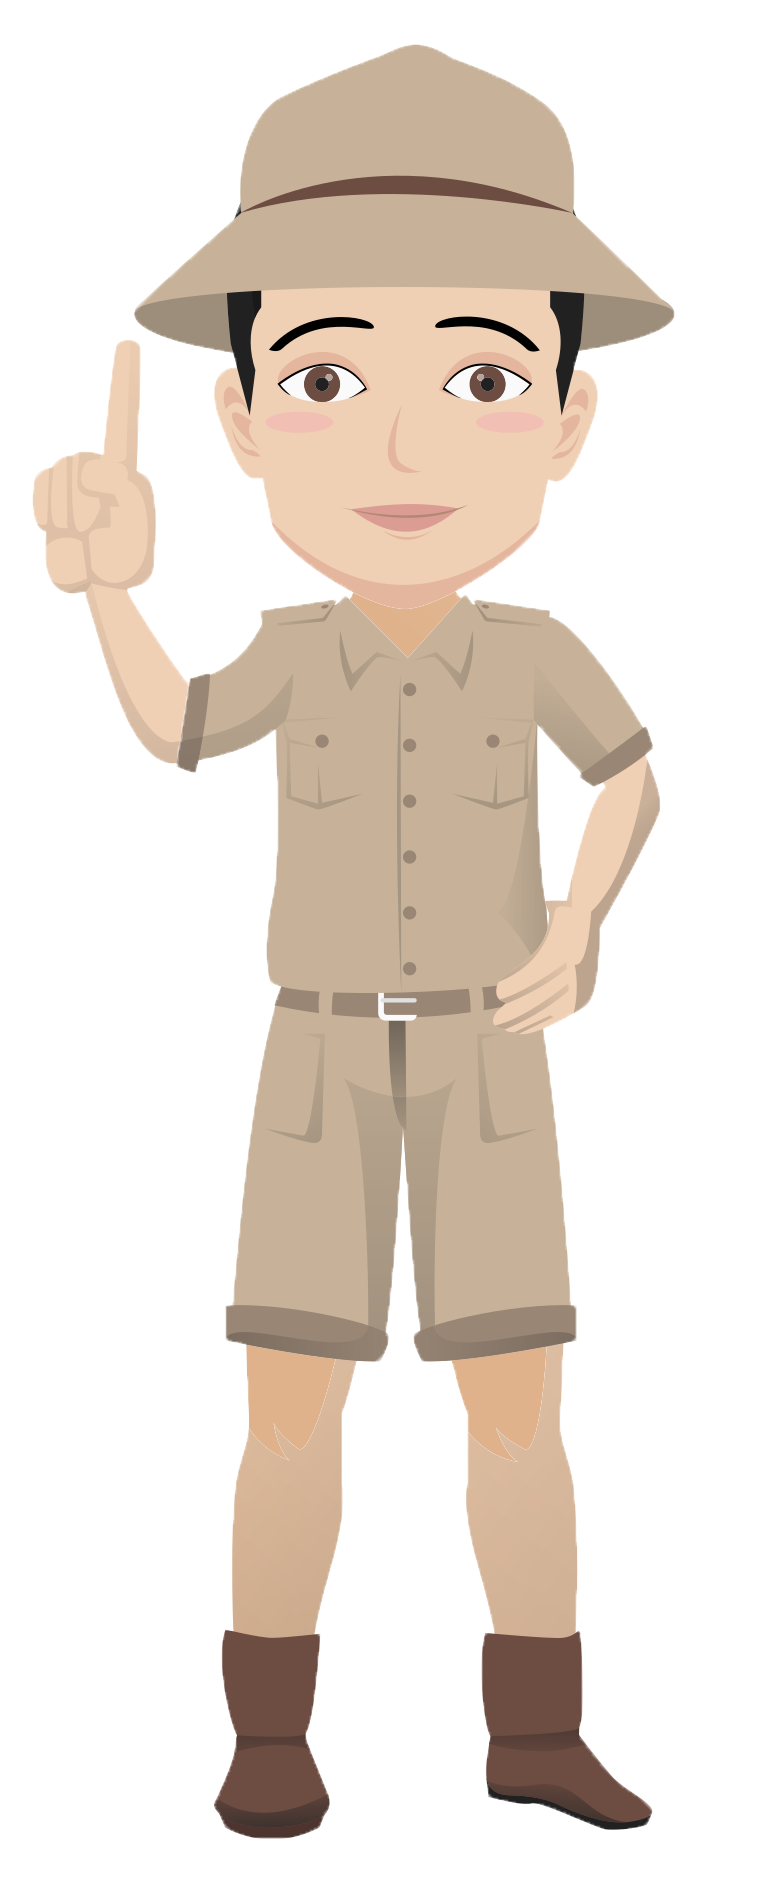
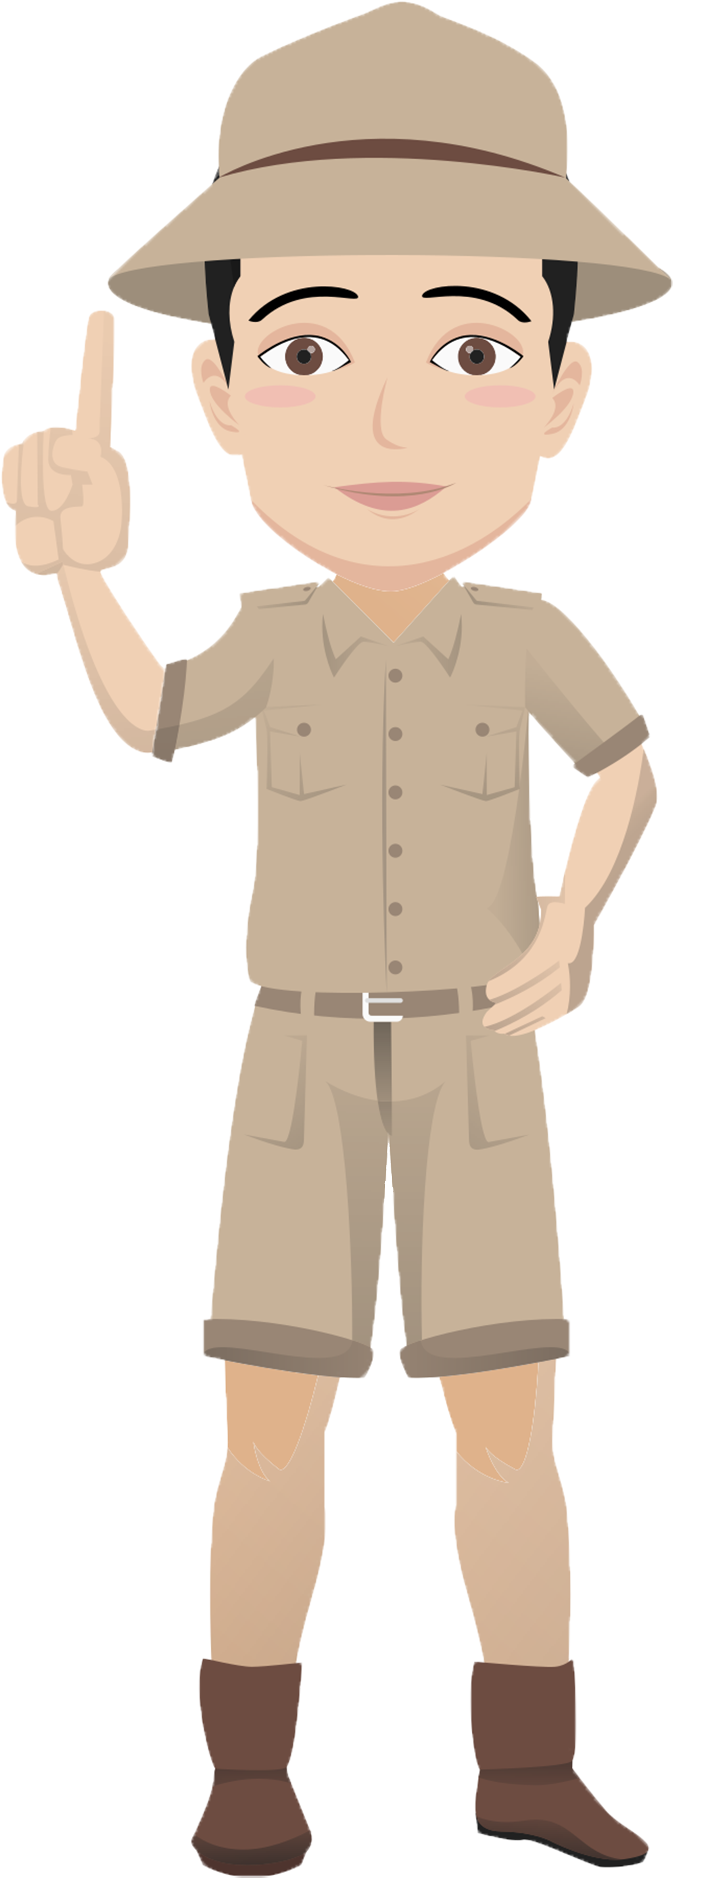
Mappuzzel 3x3 -> 4x4, groep 2 map, male keeper new

diff --git a/public/pages/mappuzzel.html b/public/pages/mappuzzel.html
@@ -40,32 +40,46 @@
         </section>
 
         <section class="section-mappuzzel grid-16-9">
-            <article class="mappuzzel grid-3-3">
-                <img class="mappuzzel--map-BG drop droppable" data-piece="piece1" src="../images/map_puzzle_game/image_part_001.png" alt="Map stukje 1"></img>
-                <img class="mappuzzel--map-BG drop droppable" data-piece="piece2" src="../images/map_puzzle_game/image_part_002.png" alt="Map stukje 2"></img>
-                <img class="mappuzzel--map-BG drop droppable" data-piece="piece3" src="../images/map_puzzle_game/image_part_003.png" alt="Map stukje 3"></img>
-                <img class="mappuzzel--map-BG drop droppable" data-piece="piece4" src="../images/map_puzzle_game/image_part_004.png" alt="Map stukje 4"></img>
-                <img class="mappuzzel--map-BG drop droppable" data-piece="piece5" src="../images/map_puzzle_game/image_part_005.png" alt="Map stukje 5"></img>
-                <img class="mappuzzel--map-BG drop droppable" data-piece="piece6" src="../images/map_puzzle_game/image_part_006.png" alt="Map stukje 6"></img>
-                <img class="mappuzzel--map-BG drop droppable" data-piece="piece7" src="../images/map_puzzle_game/image_part_007.png" alt="Map stukje 7"></img>
-                <img class="mappuzzel--map-BG drop droppable" data-piece="piece8" src="../images/map_puzzle_game/image_part_008.png" alt="Map stukje 8"></img>
-                <img class="mappuzzel--map-BG drop droppable" data-piece="piece9" src="../images/map_puzzle_game/image_part_009.png" alt="Map stukje 9"></img>
+             <article class="mappuzzel grid-4-4">
+                <figure><img class="mappuzzel--map-BG drop droppable" data-piece="piece1" src="../images/map_puzzle_game/4x4/image_part_001.png" alt="Map stukje 1"></figure>
+                <figure><img class="mappuzzel--map-BG drop droppable" data-piece="piece2" src="../images/map_puzzle_game/4x4/image_part_002.png" alt="Map stukje 2"></figure>
+                <figure><img class="mappuzzel--map-BG drop droppable" data-piece="piece3" src="../images/map_puzzle_game/4x4/image_part_003.png" alt="Map stukje 3"></figure>
+                <figure><img class="mappuzzel--map-BG drop droppable" data-piece="piece4" src="../images/map_puzzle_game/4x4/image_part_004.png" alt="Map stukje 4"></figure>
+                <figure><img class="mappuzzel--map-BG drop droppable" data-piece="piece5" src="../images/map_puzzle_game/4x4/image_part_005.png" alt="Map stukje 5"></figure>
+                <figure><img class="mappuzzel--map-BG drop droppable" data-piece="piece6" src="../images/map_puzzle_game/4x4/image_part_006.png" alt="Map stukje 6"></figure>
+                <figure><img class="mappuzzel--map-BG drop droppable" data-piece="piece7" src="../images/map_puzzle_game/4x4/image_part_007.png" alt="Map stukje 7"></figure>
+                <figure><img class="mappuzzel--map-BG drop droppable" data-piece="piece8" src="../images/map_puzzle_game/4x4/image_part_008.png" alt="Map stukje 8"></figure>
+                <figure><img class="mappuzzel--map-BG drop droppable" data-piece="piece9" src="../images/map_puzzle_game/4x4/image_part_009.png" alt="Map stukje 9"></figure>
+                <figure><img class="mappuzzel--map-BG drop droppable" data-piece="piece10" src="../images/map_puzzle_game/4x4/image_part_010.png" alt="Map stukje 10"></figure>
+                <figure><img class="mappuzzel--map-BG drop droppable" data-piece="piece11" src="../images/map_puzzle_game/4x4/image_part_011.png" alt="Map stukje 11"></figure>
+                <figure><img class="mappuzzel--map-BG drop droppable" data-piece="piece12" src="../images/map_puzzle_game/4x4/image_part_012.png" alt="Map stukje 12"></figure>
+                <figure><img class="mappuzzel--map-BG drop droppable" data-piece="piece13" src="../images/map_puzzle_game/4x4/image_part_013.png" alt="Map stukje 13"></figure>
+                <figure><img class="mappuzzel--map-BG drop droppable" data-piece="piece14" src="../images/map_puzzle_game/4x4/image_part_014.png" alt="Map stukje 14"></figure>
+                <figure><img class="mappuzzel--map-BG drop droppable" data-piece="piece15" src="../images/map_puzzle_game/4x4/image_part_015.png" alt="Map stukje 15"></figure>
+                <figure><img class="mappuzzel--map-BG drop droppable" data-piece="piece16" src="../images/map_puzzle_game/4x4/image_part_016.png" alt="Map stukje 16"></figure>
             </article>
 
-            <section class="mappuzzel--slide grid-16-9">
-                <img class="mappuzzel--slide-1 drag" data-piece="piece1" src="../images/map_puzzle_game/image_part_001.png" alt="Map stukje 1"></img>
-                <img class="mappuzzel--slide-2 drag" data-piece="piece2" src="../images/map_puzzle_game/image_part_002.png" alt="Map stukje 2"></img>
-                <img class="mappuzzel--slide-3 drag" data-piece="piece3" src="../images/map_puzzle_game/image_part_003.png" alt="Map stukje 3"></img>
-                <img class="mappuzzel--slide-4 drag" data-piece="piece4" src="../images/map_puzzle_game/image_part_004.png" alt="Map stukje 4"></img>
-                <img class="mappuzzel--slide-5 drag" data-piece="piece5" src="../images/map_puzzle_game/image_part_005.png" alt="Map stukje 5"></img>
-                <img class="mappuzzel--slide-6 drag" data-piece="piece6" src="../images/map_puzzle_game/image_part_006.png" alt="Map stukje 6"></img>
-                <img class="mappuzzel--slide-7 drag" data-piece="piece7" src="../images/map_puzzle_game/image_part_007.png" alt="Map stukje 7"></img>
-                <img class="mappuzzel--slide-8 drag" data-piece="piece8" src="../images/map_puzzle_game/image_part_008.png" alt="Map stukje 8"></img>
-                <img class="mappuzzel--slide-9 drag" data-piece="piece9" src="../images/map_puzzle_game/image_part_009.png" alt="Map stukje 9"></img>
-            </section>
+            <article class="mappuzzel--slide grid-16-9">
+            <img class="mappuzzel--slide-1 drag" data-piece="piece1" src="../images/map_puzzle_game/4x4/image_part_001.png" alt="Map stukje 1">
+            <img class="mappuzzel--slide-2 drag" data-piece="piece2" src="../images/map_puzzle_game/4x4/image_part_002.png" alt="Map stukje 2">
+            <img class="mappuzzel--slide-3 drag" data-piece="piece3" src="../images/map_puzzle_game/4x4/image_part_003.png" alt="Map stukje 3">
+            <img class="mappuzzel--slide-4 drag" data-piece="piece4" src="../images/map_puzzle_game/4x4/image_part_004.png" alt="Map stukje 4">
+            <img class="mappuzzel--slide-5 drag" data-piece="piece5" src="../images/map_puzzle_game/4x4/image_part_005.png" alt="Map stukje 5">
+            <img class="mappuzzel--slide-6 drag" data-piece="piece6" src="../images/map_puzzle_game/4x4/image_part_006.png" alt="Map stukje 6">
+            <img class="mappuzzel--slide-7 drag" data-piece="piece7" src="../images/map_puzzle_game/4x4/image_part_007.png" alt="Map stukje 7">
+            <img class="mappuzzel--slide-8 drag" data-piece="piece8" src="../images/map_puzzle_game/4x4/image_part_008.png" alt="Map stukje 8">
+            <img class="mappuzzel--slide-9 drag" data-piece="piece9" src="../images/map_puzzle_game/4x4/image_part_009.png" alt="Map stukje 9">
+            <img class="mappuzzel--slide-10 drag" data-piece="piece10" src="../images/map_puzzle_game/4x4/image_part_010.png" alt="Map stukje 10">
+            <img class="mappuzzel--slide-11 drag" data-piece="piece11" src="../images/map_puzzle_game/4x4/image_part_011.png" alt="Map stukje 11">
+            <img class="mappuzzel--slide-12 drag" data-piece="piece12" src="../images/map_puzzle_game/4x4/image_part_012.png" alt="Map stukje 12">
+            <img class="mappuzzel--slide-13 drag" data-piece="piece13" src="../images/map_puzzle_game/4x4/image_part_013.png" alt="Map stukje 13">
+            <img class="mappuzzel--slide-14 drag" data-piece="piece14" src="../images/map_puzzle_game/4x4/image_part_014.png" alt="Map stukje 14">
+            <img class="mappuzzel--slide-15 drag" data-piece="piece15" src="../images/map_puzzle_game/4x4/image_part_015.png" alt="Map stukje 15">
+            <img class="mappuzzel--slide-16 drag" data-piece="piece16" src="../images/map_puzzle_game/4x4/image_part_016.png" alt="Map stukje 16">
+            </article>
 
             <!-- <p id="js--map_text" class="section-mappuzzel__finished">Dat ziet er veel beter uit! Laten we de kaart maar meteen gebruiken!</p> -->
-            <img id="js--map_zookeeper" class="mappuzzel__zookeeper" src="../images/zoo-keeper-1.png" alt="Zookeeper">
+            <img id="js--map_zookeeper" class="mappuzzel__zookeeper" src="../images/zookeeper-poses/male/zookeeper-pose-happy-hips.png" alt="Zookeeper">
             <div id="js--map_btn" class="mappuzzel__eind-btn">
                 <button class="btn-ok button">&#10148;</button>
             </div>

diff --git a/public/pages/groep-2/mappuzzel.html b/public/pages/groep-2/mappuzzel.html
@@ -1,0 +1,84 @@
+<!DOCTYPE html>
+<html lang="en">
+<head>
+    <meta charset="UTF-8">
+    <meta http-equiv="X-UA-Compatible" content="IE=edge">
+    <meta name="viewport" content="width=device-width, initial-scale=1.0">
+    <title>Dierentuin</title>
+    <link rel="stylesheet" href="../../sass/main.css">
+    <link rel="icon" type="image/x-icon" href="../../images/monkey-head.png">
+    <script src="../../javascript/main.js" type="module" defer></script>
+    <script src="../../javascript/mappuzzel.js" type="module" defer></script>
+</head>
+<body>
+    <iframe src="../../audio/3-Mappuzzel/1-kaartInElkaar.mp3" allow="autoplay" style="display:none" id="iframeAudio"></iframe>
+    <main class="background-mappuzzel">
+        <section class="puzzel-options grid-16-1">
+            <button class="puzzel-options__btn-hint button ">
+                <img class="puzzel-options__btn-hint--image" src="../../images/hint-btn.png"></img>
+            </button>
+
+            <button class="puzzel-options__btn-information button ">
+                <img class="puzzel-options__btn-information--image" src="../../images/information-btn.png"></img>
+            </button>
+
+            <button class="puzzel-options__btn-music button" id="js--music-on">
+                <img class="puzzel-options__btn-music--image" src="../../images/music-on-btn.png"></img>
+            </button>
+
+            <button class="puzzel-options__btn-music puzzel-options__btn-music-off button" id="js--music-off">
+                <img class="puzzel-options__btn-music--image" src="../../images/music-off-btn.png"></img>
+            </button>
+
+            <button class="puzzel-options__btn-speak button" id="js--speak-on">
+                <img class="puzzel-options__btn-speak--image" src="../../images/speak-on-btn.png"></img>
+            </button>
+
+            <button class="puzzel-options__btn-speak puzzel-options__btn-speak-off button" id="js--speak-off">
+                <img class="puzzel-options__btn-speak--image" src="../../images/speak-off-btn.png"></img>
+            </button>
+        </section>
+
+        <section class="section-mappuzzel grid-16-9">
+            <article class="mappuzzel grid-3-3">
+                <img class="mappuzzel--map-BG drop droppable" data-piece="piece1" src="../../images/map_puzzle_game/image_part_001.png" alt="Map stukje 1"></img>
+                <img class="mappuzzel--map-BG drop droppable" data-piece="piece2" src="../../images/map_puzzle_game/image_part_002.png" alt="Map stukje 2"></img>
+                <img class="mappuzzel--map-BG drop droppable" data-piece="piece3" src="../../images/map_puzzle_game/image_part_003.png" alt="Map stukje 3"></img>
+                <img class="mappuzzel--map-BG drop droppable" data-piece="piece4" src="../../images/map_puzzle_game/image_part_004.png" alt="Map stukje 4"></img>
+                <img class="mappuzzel--map-BG drop droppable" data-piece="piece5" src="../../images/map_puzzle_game/image_part_005.png" alt="Map stukje 5"></img>
+                <img class="mappuzzel--map-BG drop droppable" data-piece="piece6" src="../../images/map_puzzle_game/image_part_006.png" alt="Map stukje 6"></img>
+                <img class="mappuzzel--map-BG drop droppable" data-piece="piece7" src="../../images/map_puzzle_game/image_part_007.png" alt="Map stukje 7"></img>
+                <img class="mappuzzel--map-BG drop droppable" data-piece="piece8" src="../../images/map_puzzle_game/image_part_008.png" alt="Map stukje 8"></img>
+                <img class="mappuzzel--map-BG drop droppable" data-piece="piece9" src="../../images/map_puzzle_game/image_part_009.png" alt="Map stukje 9"></img>
+            </article>
+
+            <section class="mappuzzel--slide grid-16-9">
+                <img class="mappuzzel--slide-1 drag" data-piece="piece1" src="../../images/map_puzzle_game/image_part_001.png" alt="Map stukje 1"></img>
+                <img class="mappuzzel--slide-2 drag" data-piece="piece2" src="../../images/map_puzzle_game/image_part_002.png" alt="Map stukje 2"></img>
+                <img class="mappuzzel--slide-3 drag" data-piece="piece3" src="../../images/map_puzzle_game/image_part_003.png" alt="Map stukje 3"></img>
+                <img class="mappuzzel--slide-4 drag" data-piece="piece4" src="../../images/map_puzzle_game/image_part_004.png" alt="Map stukje 4"></img>
+                <img class="mappuzzel--slide-5 drag" data-piece="piece5" src="../../images/map_puzzle_game/image_part_005.png" alt="Map stukje 5"></img>
+                <img class="mappuzzel--slide-6 drag" data-piece="piece6" src="../../images/map_puzzle_game/image_part_006.png" alt="Map stukje 6"></img>
+                <img class="mappuzzel--slide-7 drag" data-piece="piece7" src="../../images/map_puzzle_game/image_part_007.png" alt="Map stukje 7"></img>
+                <img class="mappuzzel--slide-8 drag" data-piece="piece8" src="../../images/map_puzzle_game/image_part_008.png" alt="Map stukje 8"></img>
+                <img class="mappuzzel--slide-9 drag" data-piece="piece9" src="../../images/map_puzzle_game/image_part_009.png" alt="Map stukje 9"></img>
+            </section>
+
+            <!-- <p id="js--map_text" class="section-mappuzzel__finished">Dat ziet er veel beter uit! Laten we de kaart maar meteen gebruiken!</p> -->
+            <img id="js--map_zookeeper" class="mappuzzel__zookeeper" src="../../images/zookeeper-poses/male/zookeeper-pose-happy-hips.png" alt="Zookeeper">
+            <div id="js--map_btn" class="mappuzzel__eind-btn">
+                <button class="btn-ok button">&#10148;</button>
+            </div>
+
+            <div class="speech-bubble mappuzzel--speech-bubble" id="js--speech-bubble">
+                <image class="btn-explaine hide" id="js--speech-bubble-img"></image>
+                <p id="js--speech-bubble-p">Dat ziet er niet best uit… Zullen we de kaart weer in elkaar zetten?</p>
+                <div class="btn-ok-div">
+                    <button class="btn-ok-small button" id="js--speech-bubble-btn">&#10004;</button>
+                </div>
+            </div>
+            <div class="hide-overlay" id="js--map-overlay"></div>
+        </section>
+    </main>
+</body>
+</html>

diff --git a/public/sass/main.css b/public/sass/main.css
@@ -1434,6 +1434,13 @@ input[type=number]::-webkit-outer-spin-button {
       grid-template-columns: repeat(3, minmax(0, 1fr));
 }
 
+.grid-4-4 {
+  display: -ms-grid;
+  display: grid;
+  -ms-grid-columns: (minmax(0, 1fr))[4];
+      grid-template-columns: repeat(4, minmax(0, 1fr));
+}
+
 .section-rekensom {
   place-items: end;
 }
@@ -1919,6 +1926,97 @@ input[type=number]::-webkit-outer-spin-button {
           transform: rotate(30deg);
 }
 
+.mappuzzel--slide-10 {
+  height: auto;
+  width: 240px;
+  -ms-grid-column: 12;
+  -ms-grid-column-span: 2;
+  grid-column: 12 / span 2;
+  -ms-grid-row: 2;
+  -ms-grid-row-span: 1;
+  grid-row: 2 /span 1;
+  -webkit-transform: rotate(30deg);
+          transform: rotate(30deg);
+}
+
+.mappuzzel--slide-11 {
+  height: auto;
+  width: 240px;
+  -ms-grid-column: 11;
+  -ms-grid-column-span: 2;
+  grid-column: 11 / span 2;
+  -ms-grid-row: 4;
+  -ms-grid-row-span: 1;
+  grid-row: 4 /span 1;
+  -webkit-transform: rotate(30deg);
+          transform: rotate(30deg);
+}
+
+.mappuzzel--slide-12 {
+  height: auto;
+  width: 240px;
+  -ms-grid-column: 12;
+  -ms-grid-column-span: 2;
+  grid-column: 12 / span 2;
+  -ms-grid-row: 5;
+  -ms-grid-row-span: 1;
+  grid-row: 5 /span 1;
+  -webkit-transform: rotate(30deg);
+          transform: rotate(30deg);
+}
+
+.mappuzzel--slide-13 {
+  height: auto;
+  width: 240px;
+  -ms-grid-column: 13;
+  -ms-grid-column-span: 2;
+  grid-column: 13 / span 2;
+  -ms-grid-row: 3;
+  -ms-grid-row-span: 1;
+  grid-row: 3 /span 1;
+  -webkit-transform: rotate(30deg);
+          transform: rotate(30deg);
+}
+
+.mappuzzel--slide-14 {
+  height: auto;
+  width: 240px;
+  -ms-grid-column: 15;
+  -ms-grid-column-span: 2;
+  grid-column: 15 / span 2;
+  -ms-grid-row: 7;
+  -ms-grid-row-span: 1;
+  grid-row: 7 /span 1;
+  -webkit-transform: rotate(30deg);
+          transform: rotate(30deg);
+}
+
+.mappuzzel--slide-15 {
+  height: auto;
+  width: 240px;
+  -ms-grid-column: 13;
+  -ms-grid-column-span: 2;
+  grid-column: 13 / span 2;
+  -ms-grid-row: 3;
+  -ms-grid-row-span: 1;
+  grid-row: 3 /span 1;
+  -webkit-transform: rotate(30deg);
+          transform: rotate(30deg);
+}
+
+.mappuzzel--slide-16 {
+  height: auto;
+  width: 240px;
+  -ms-grid-column: 11;
+  -ms-grid-column-span: 2;
+  grid-column: 11 / span 2;
+  -ms-grid-row: 2;
+  -ms-grid-row-span: 1;
+  grid-row: 2 /span 1;
+  -webkit-transform: rotate(30deg);
+          transform: rotate(30deg);
+}
+
 .mappuzzel__zookeeper {
   -ms-grid-column: 6;
       grid-column-start: 6;
@@ -1926,7 +2024,7 @@ input[type=number]::-webkit-outer-spin-button {
       grid-row-start: 2;
   text-align: center;
   font-size: 2rem;
-  width: 30rem;
+  width: 20rem;
   -webkit-transition: 0.5s all;
   transition: 0.5s all;
   z-index: 2;

diff --git a/public/sass/pages/_mappuzzel.scss b/public/sass/pages/_mappuzzel.scss
@@ -95,6 +95,64 @@
             grid-row: 6 /span 1;
             transform: rotate(30deg);
         }
+        
+        &-10{
+            height: auto;
+            width: 240px;
+            grid-column: 12 / span 2;
+            grid-row: 2 /span 1;
+            transform: rotate(30deg);
+        }
+
+        &-11{
+            height: auto;
+            width: 240px;
+            grid-column: 11 / span 2;
+            grid-row: 4 /span 1;
+            transform: rotate(30deg);
+        }
+
+        &-12{
+            height: auto;
+            width: 240px;
+            grid-column: 12 / span 2;
+            grid-row: 5 /span 1;
+            transform: rotate(30deg);
+        }
+
+        &-13{
+            height: auto;
+            width: 240px;
+            grid-column: 13 / span 2;
+            grid-row: 3 /span 1;
+            transform: rotate(30deg);
+        }
+
+        &-14{
+            height: auto;
+            width: 240px;
+            grid-column: 15 / span 2;
+            grid-row: 7 /span 1;
+            transform: rotate(30deg);
+        }
+
+        &-15{
+            height: auto;
+            width: 240px;
+            grid-column: 13 / span 2;
+            grid-row: 3 /span 1;
+            transform: rotate(30deg);
+        }
+
+        &-16{
+            height: auto;
+            width: 240px;
+            grid-column: 11 / span 2;
+            grid-row: 2 /span 1;
+            transform: rotate(30deg);
+        }
+
+
     }
     &__zookeeper {
         // grid-column-start: 10;
@@ -102,7 +160,7 @@
         grid-row-start: 2;
         text-align: center;
         font-size: 2rem;
-        width: 30rem;
+        width: 20rem;
         transition: 0.5s all;
         z-index: 2;
     }

diff --git a/public/javascript/functions.js b/public/javascript/functions.js
@@ -105,7 +105,7 @@ const dragDropMap = (obj, btn, zookpr, speech) => {
         obj.hidden = true;
         layedPieces++;
 
-        if(layedPieces == 9){
+        if(layedPieces == 16){
           btn.style.display = "block";
           zookpr.style.visibility = "visible";
           zookpr.style.zIndex = "1";

diff --git a/public/sass/layout/_grid.scss b/public/sass/layout/_grid.scss
@@ -42,3 +42,9 @@
     // grid-template-rows: repeat(1, minmax(0,1fr));
     grid-template-columns: repeat(3, minmax(0,1fr));
 }
+
+.grid-4-4{
+    display: grid;
+    // grid-template-rows: repeat(1, minmax(0,1fr));
+    grid-template-columns: repeat(4, minmax(0,1fr));
+}
